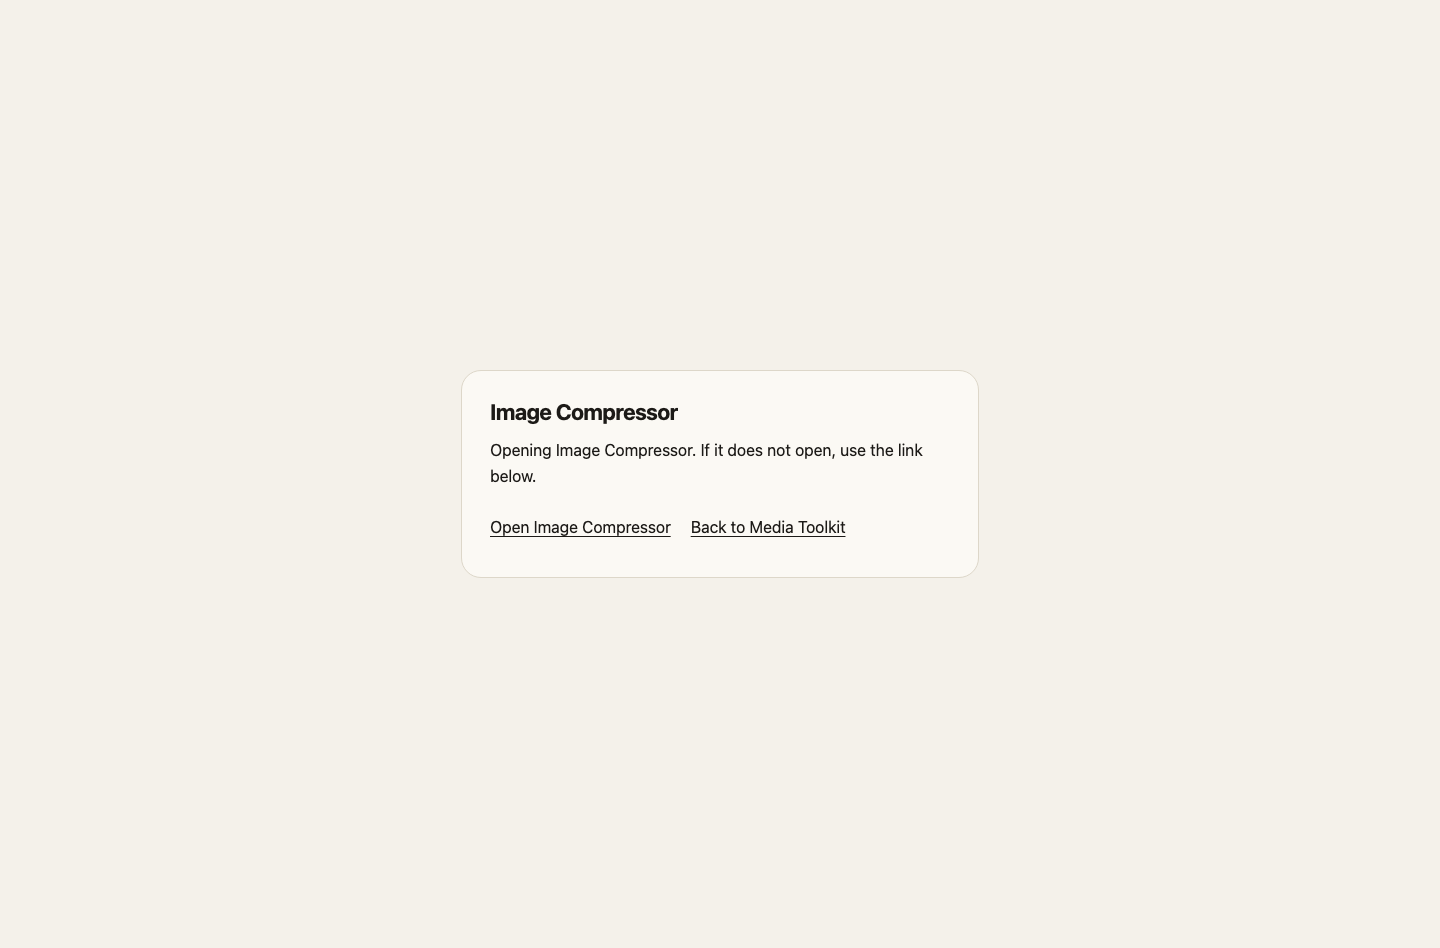
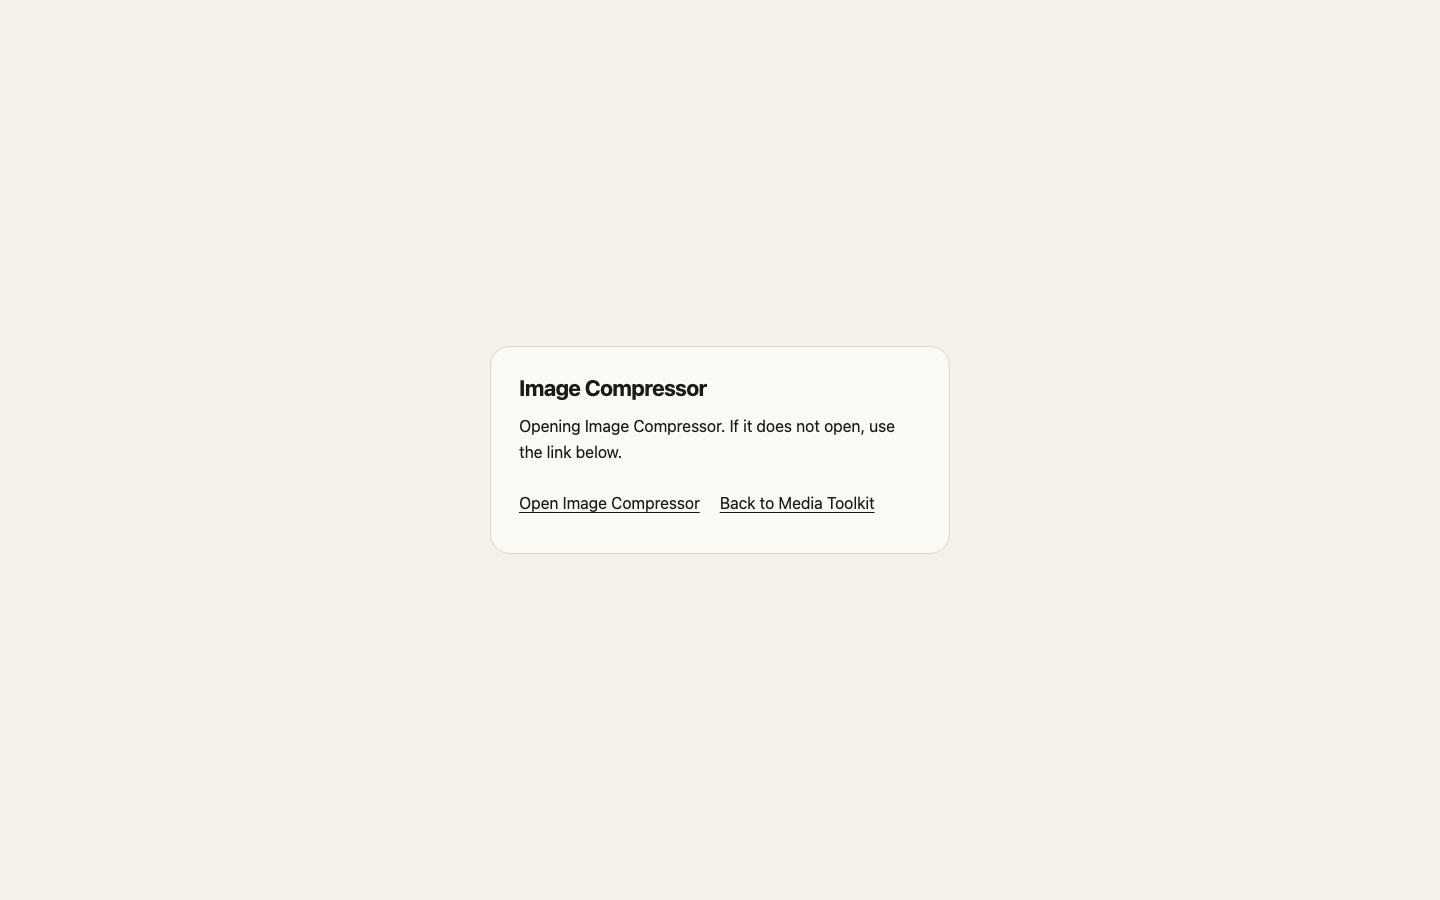
fix(hub): close the review findings in the alias and storage checks

Changed region(s): [[0.3438, 0.4044, 0.6562, 0.5911]]

diff --git a/public/404.html b/public/404.html
@@ -102,8 +102,7 @@
     transition: border-color 150ms ease;
   }
 
-  .links a::after {
-    content: "\2192";
+  .link-arrow {
     color: var(--muted);
   }
 
@@ -129,9 +128,9 @@
   <h1>Page not found</h1>
   <p>That page was not found. Try one of these instead.</p>
   <ul class="links">
-    <li><a href="./">Media Toolkit home</a></li>
-    <li><a href="./image-compressor/">Image Compressor</a></li>
-    <li><a href="./audio-toolkit/">Audio Toolkit</a></li>
+    <li><a href="./">Media Toolkit home <span class="link-arrow" aria-hidden="true">&rarr;</span></a></li>
+    <li><a href="./image-compressor/">Image Compressor <span class="link-arrow" aria-hidden="true">&rarr;</span></a></li>
+    <li><a href="./audio-toolkit/">Audio Toolkit <span class="link-arrow" aria-hidden="true">&rarr;</span></a></li>
   </ul>
 </main>
 </body>

diff --git a/public/audio-toolkit/index.html b/public/audio-toolkit/index.html
@@ -26,6 +26,12 @@
     }
   }
 
+  *,
+  *::before,
+  *::after {
+    box-sizing: border-box;
+  }
+
   body {
     margin: 0;
     min-height: 100vh;

diff --git a/public/image-compressor/index.html b/public/image-compressor/index.html
@@ -26,6 +26,12 @@
     }
   }
 
+  *,
+  *::before,
+  *::after {
+    box-sizing: border-box;
+  }
+
   body {
     margin: 0;
     min-height: 100vh;
